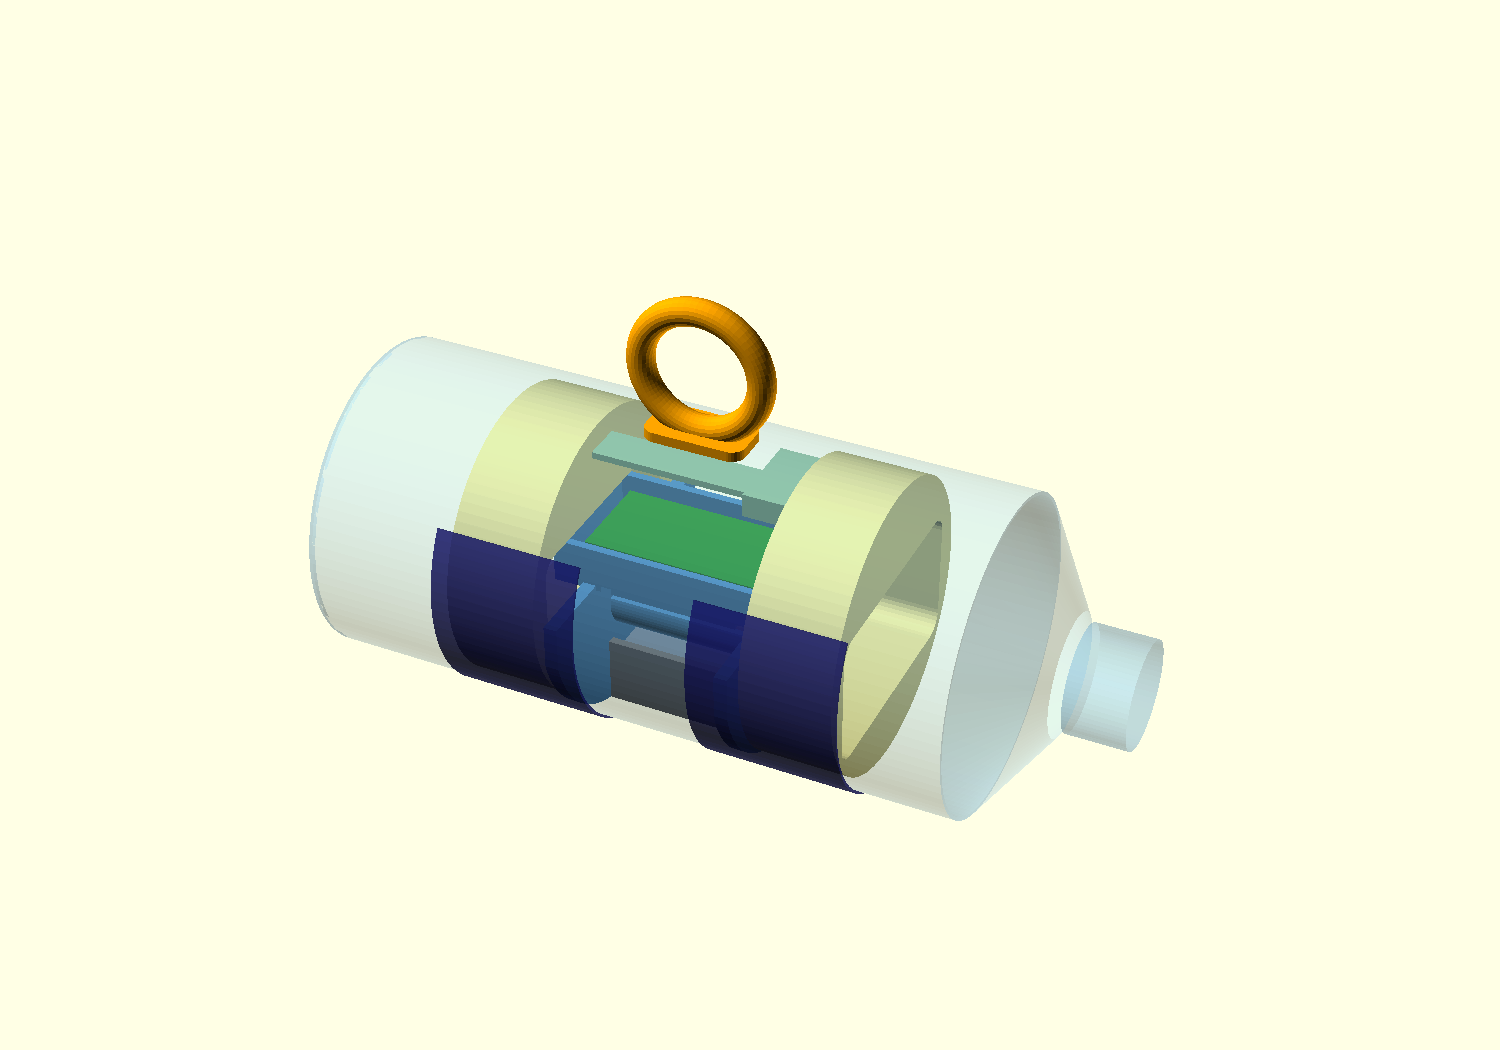
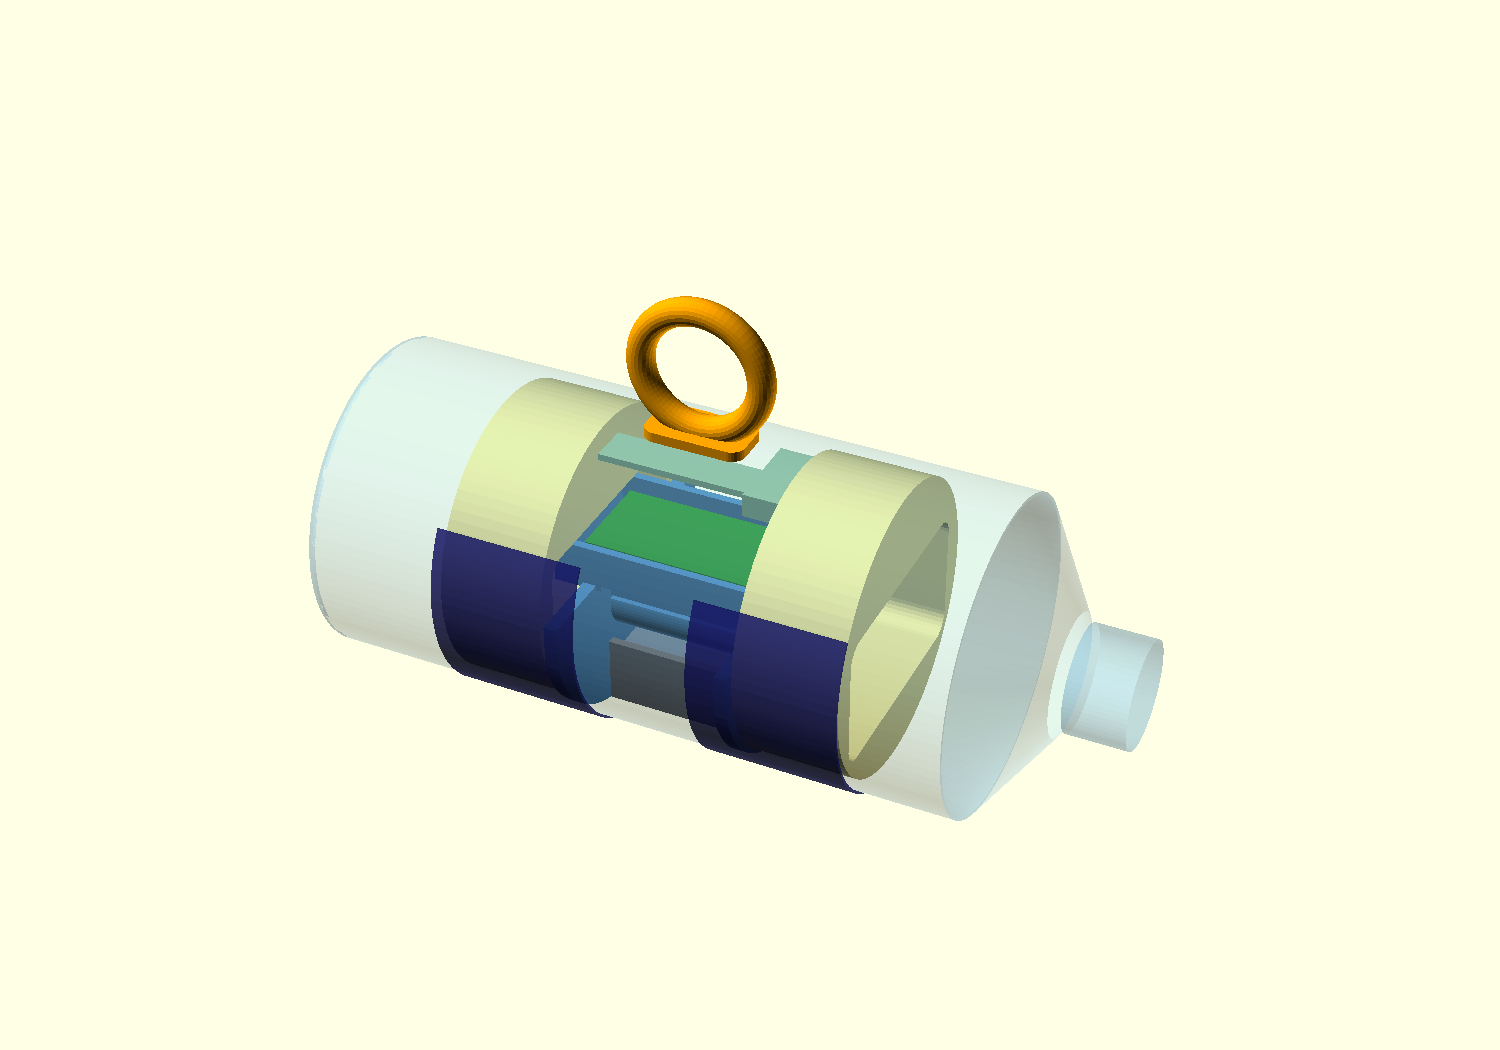
fix(hardware): Tier 1.5 QA 라운드 개선 — 폼 CAD 연결·assert 게이트·T1 정합·재현성
QA 군단(4렌즈, 렌더 직접열람) 검수 반영:
- M1 밀도인지 폼을 CAD 지오메트리에 실제 연결(foam_collar(t)·assembly/export 분기) → 렌더·STL이 27→31mm 실제 반영(기존엔 echo·주석만이라 F2 탈락 크기 출력)
- M6 비금속 기재 게이트를 assert()로 코드 강제(metal이면 빌드 abort — 산문 아님)·solar_second_cell 질량 실배선
- M3 Tier 1.5 BOM 표 malformed 수정(Reference orderable 열 신설·실품)
- M5 T1 정본 정합(24h→30분 침지·Δm≤0.5g, T3 1m→1.5m) TIER1_5·조립
- M4 T7(셀 장착 자기복원) VERIFIED_BUILD_TEST 항목·G5 벤치 부록 추가
- M2 솔라 랩 시공 절차(조립 §3-S) 신설
- minor: 폼 계수 6.7 EP 교차참조·DIY 티어표 선형/MPPT

★커널·정직·렌더 시각은 QA 전부 PASS. B1(리포 라이선스 P vs S·데이터 BY vs BY-SA)은 소유자 결정 필요로 별도 보고.

diff --git a/docs/조립_가이드.md b/docs/조립_가이드.md
@@ -71,7 +71,7 @@
 
 표준 페트병 입구는 **Ø28~30mm**인데 폼 칼라(Ø86)·브래킷(폭 86)은 그보다 크다 — **입구로는 물리적으로 안 들어간다.** 두 가지 길:
 
-1. **절단-재밀봉(기본, Merlino 아르노강 방식)**: 병 어깨 아래를 커터로 깨끗이 한 바퀴 절단 → 부품 삽입·고정 → 절단부를 5~10mm 겹쳐 끼우고 **실리콘 도포 + 방수 테이프 2겹(또는 열수축 밴드)** 으로 재밀봉. ★절단부가 새 누수 지점이 되므로 **T1(24h 소크)을 반드시 이 상태로** 통과시킨다.
+1. **절단-재밀봉(기본, Merlino 아르노강 방식)**: 병 어깨 아래를 커터로 깨끗이 한 바퀴 절단 → 부품 삽입·고정 → 절단부를 5~10mm 겹쳐 끼우고 **실리콘 도포 + 방수 테이프 2겹(또는 열수축 밴드)** 으로 재밀봉. ★절단부가 새 누수 지점이 되므로 **T1(밀봉 침지 30분, Δm≤0.5g)을 반드시 이 상태로** 통과시킨다.
 2. **광구 용기(대안)**: 입구가 넓은 HDPE/PP 밀폐 용기(FLOAT_STANDARD 소재표)를 쓰면 절단 불필요 — 재사용·견고 캠페인에 유리.
 
 순서(아래→위): **킬(밸러스트) → 배터리 → 폼 → 보드 → 안테나**. 원칙: 무거운 건 아래·가운데, 폼은 상부 2/3, 안테나는 최상단.
@@ -81,6 +81,17 @@
 3. 폼 칼라/블록 삽입(보드 채널 통과).
 4. **안테나 2개(LTE·GNSS)는 병 최상단**, 금속·물과 이격. 하우징은 비금속(RF 투과) 유지.
 5. QR/연락처 라벨(방수)·고시인성 테이프(수선 위치)·회수 고리(파라코드, **저프로파일** — 야생동물 얽힘 저감) 부착.
+
+## 3-S. 솔라 랩 시공 (Tier 1.5 · 솔라 변형만)
+
+박막 랩은 이 변형의 **유일한 핵심 공정**이자 최다 실패모드(물속 박리·엣지 침투)다. 순서:
+1. **표면 전처리** — 몸통 랩 구간 탈지(IPA) → 실란 PET 프라이머 도포 → 지정 경화시간 대기.
+2. **필름 부착** — 밴드 폭 44mm, 중앙 채널 34mm(`solar_band_gap`, 회수고리·QR 노출) 유지. VHB 마린으로 리딩 엣지부터 밀착, 곡면 기포 제거.
+3. **★+Z 120° 필름-프리 창** — 캡 기준 각도를 맞춰 안테나·회수고리 위 120° 섹터를 필름으로 **덮지 말 것**([assembly_solar.png](../hardware/cad/assembly_solar.png) 대조). 마스킹 테이프로 창 경계 표시 후 재단.
+4. **엣지 밀봉** — 리드 관통·필름 가장자리를 부틸/에폭시로 밀봉(박리·침투 차단). 배선은 **절단-재밀봉 이음부 그로밋 재사용**(§3-0) — 새 구멍 금지.
+5. **부착물** — 충전 컨트롤러·NTC(셀 캔 본딩)·격리 다이오드는 기존 브래킷 리브에 지퍼타이(★무프린터 빌드는 폼 칼라 상부 채널 벽 또는 셀홀더 옆에 케이블타이+에폭시, CG 낮게), 벤트 패치는 캡에.
+
+전개(flat) 절단 치수: 원주 ≈ π×`solar_wrap_od`(~289mm) · 축폭 44mm · 채널 34mm · 120° 필름-프리 호. ★정밀 SVG/DXF 전개 템플릿은 폼(`foam_collar_2d.scad`)처럼 후속 산출 예정.
 
 ## 4. 밀봉
 
@@ -96,9 +107,9 @@
 
 | 테스트 | 방법 | 합격 |
 |---|---|---|
-| **T1 밀봉 소크** | 24h 침수(눌러 잠금) → 개봉 없이 무게 | 질량 증가 <5%·내부 건조 |
+| **T1 밀봉 침지** | 30분 침지(20cm 수몰) → 개봉 없이 무게 | **Δm≤0.5g**(>2g FAIL)·내부 건조 |
 | **T2 침수-부양(=F2)** | 하우징에 물 채우거나 공기배수량만큼 추 → 물에 | **72h 똑바로 부유** |
-| T3 낙하 | 1m 콘크리트 낙하 → T1 재확인 | 밀봉 유지 |
+| T3 낙하 | 1.5m 콘크리트 낙하 → T1 재확인 | 밀봉 유지 |
 | T4 자기복원 | 뒤집어 놓기 | 안테나가 위로 스스로 복원 |
 | T5 냉수 가동 | 아이스팩 수조에서 수 주기 | 핑 누락 <10% |
 | T6 소크 후 RF | T1 후 야외 | GPS+LTE 재취득 |

diff --git a/docs/벤치_체크리스트.md b/docs/벤치_체크리스트.md
@@ -43,5 +43,21 @@
 
 전 유닛 G0~G3 통과 → [조립_가이드](조립_가이드.md) 3장(조립)으로. 조립·밀봉 후 T1~T6([VERIFIED_BUILD_TEST](../hardware/VERIFIED_BUILD_TEST.md)) → 방류 전 [PRELAUNCH_RECOVERY_CHECKLIST](../hardware/PRELAUNCH_RECOVERY_CHECKLIST.md).
 
+## 4. 솔라 부록 — G5 수확 (Tier 1.5 솔라 변형만)
+
+솔라 유닛은 위 G0~G3 + 조립·T1~T6에 더해 **G5(수확 특성화)·T7(셀 장착 자기복원)** 를 통과해야 방류. G5 7스텝(인라인 전류계/쿨롱카운터, 최소 USB 전류계로 대체 가능):
+
+| ✅ | 단계 |
+|---|---|
+| ☐ | ① 완전 햇빛·정적 최적 자세 기준 충전전류 |
+| ☐ | ② **뒹구는 자세** 시간평균 전류(자기복원체는 고정면 없음·배는 항상 어두움) |
+| ☐ | ③ 모의 탁도/수막 얹고 재측정 |
+| ☐ | ④ 노화 반영(a-Si는 초기 10~30% 안정화 후) |
+| ☐ | ⑤ 일주 적분 → 수확 H(mAh/day) |
+| ☐ | ⑥ **야간 컨트롤러 정지전류 실측** — mA급 MPPT면 순손해 → 선형/야간게이트 |
+| ☐ | ⑦ 목표 핑 실측 소비 D와 비교, **손익분기 H*≈132 mAh/day**(60분·모뎀오프). 연장계수 1/(1−H/D)만, ★**일수 인용 금지** |
+
+**판정**: H가 D 대비 순증이 아니면 "보험 트리클"로 라벨(배터리가 잔류를 독립 감당). <0℃면 저온 컷오프로 H→0(겨울은 솔라 아님). 상세=[TIER1_5 §4](../hardware/TIER1_5_SOLAR_DRIFTER.md).
+
 ---
 > 정직 각주: 모든 전력·부력 수치는 추정이며 이 벤치가 실측으로 교체한다. 셀룰러(위성 아님)·회수-우선. 다수 방류 전 전파 면제확인 필요.

diff --git a/hardware/BOM.md b/hardware/BOM.md
@@ -32,15 +32,15 @@ Reference board is the LILYGO T-A7670G R2 with onboard L76K GNSS. It is cellular
 
 For missions where a unit **dwells in-coverage for weeks** (estuary retention — the Han-estuary study shows most litter lingers 1 month+), a battery-only unit dies before it can be recovered. Add **wrap-around thin-film solar** to extend reporting life so the unit stays trackable and recoverable. ★**Solar extends power, not coverage** — a unit that leaves cellular range goes silent regardless of charge (that is satellite / Class 3). Not for short recover-in-days missions (use Tier 1). Full spec, the self-righting-preserving design, and the extra bench gates (G5 solar harvest, T7 self-right with cells): [TIER1_5_SOLAR_DRIFTER.md](TIER1_5_SOLAR_DRIFTER.md).
 
-| Function | Generic spec | Reference | ~USD |
+| Function | Generic spec | Reference (orderable) | ~USD |
 |---|---|---|---|
-| Solar cells | flexible thin-film wrapped around the body. ★**Non-metal RF-transparent substrate only** — a-Si (ETFE front) or Cd-free CIGS (polyimide); no stainless-backed CIGS / CdTe / perovskite (RF shield + toxicity). ETFE front, not PET | 8–15 |
-| Charge control | ★**External low-Iq linear charger (default, CN3065-class) to the BATTERY terminal**, zip-tied to the existing bracket; onboard-direct only as a small-panel exception w/ buck-boost to 5.0–5.2 V. MPPT (CN3791-class) for clean/summer sites only | 0–10 |
-| Low-temp cutoff | ★**Mandatory on ALL modes, hardware latch** — 10 kΩ B3435 NTC epoxy-bonded to the cell can (<0 ℃ charge blocked; not firmware) | 0.5 |
-| Isolation diode | Schottky / ideal-diode, reverse-block the panel | 0.5 |
-| Vent | Gore-Tex ePTFE **adhesive patch** (pressure/heat) — **not** a printed boss | 2–4 |
-| Extra foam | buoyancy re-cut, ★**density-aware +6.7 cm³/10g** (panel ρ≈1.64, NOT the ballast 11.7) | ~1 |
-| Battery (optional 2nd) | buffer cell — ★**matched + isolation diode/balancing**, belly placement; else prefer one larger protected cell | 8–11 |
+| Solar cells | flexible thin-film, 5–6 V, min-bend-radius ≤46 mm. ★**Non-metal RF-transparent substrate only** — a-Si (ETFE front) or Cd-free CIGS (polyimide); no stainless-backed CIGS / CdTe / perovskite (RF shield + toxicity) | PowerFilm-class flexible a-Si panel (ETFE front) | 8–15 |
+| Charge control | ★**external low-Iq linear (default) to the BATTERY terminal**, zip-tied to the existing bracket; onboard-direct only a small-panel exception (buck-boost to 5.0–5.2 V); MPPT for clean/summer sites | CN3065 breakout module (linear) / CN3791 (MPPT) | 0–10 |
+| Low-temp cutoff | ★**mandatory all modes, hardware latch** — <0 ℃ charge blocked (not firmware) | 10 kΩ B3435 NTC epoxy-bonded to the cell can | 0.5 |
+| Isolation diode | reverse-block the panel | Schottky / ideal-diode module | 0.5 |
+| Vent | pressure/heat equalise — **not** a printed boss | Gore-Tex ePTFE adhesive vent patch | 2–4 |
+| Extra foam | buoyancy re-cut, ★**density-aware +6.7 cm³/10 g** (panel ρ≈1.64, NOT the ballast 11.7) | closed-cell EVA sheet | ~1 |
+| Battery (optional 2nd) | ★**matched + isolation diode/balancing**, belly placement; else one larger protected cell | matched protected 18650 | 8–11 |
 
 Everything else is identical to Tier 1. Keep the battery sized to survive the planned dwell on its own; solar is margin, not a design input, until bench G5 measures real harvest.
 

diff --git a/hardware/VERIFIED_BUILD_TEST.md b/hardware/VERIFIED_BUILD_TEST.md
@@ -88,7 +88,20 @@
 
 ---
 
-**Verified Build 최종 판정**: T1~T6 **전부 PASS** → `verified_build=true` 스탬프(체크리스트/스키마 연동). 하나라도 FAIL이면 방류 불가.
+### T7 — 셀 장착 자기복원 (Tier 1.5 솔라 변형 전용, = T4 재시험)
+**절차**: 솔라 페이로드(박막 필름 + 충전 컨트롤러 + NTC + 배선)를 전부 장착하고 폼을 `foam_vol_solar`(~186cm³)로 키운 상태에서 **T4를 그대로 재수행**. ★밸러스트는 **40g 불변**(솔라 무게 상쇄로 감량 금지 — CG 상승, 자기복원 사망).
+
+| 판정 | 조건 |
+|---|---|
+| ✅ PASS | 5회 모두 ≤5초 자동 복원, 최종 안테나부 수면 위 |
+| ⚠ 튜닝 | 5–10초 → 밸러스트 **위치**(질량 아님) 재튜닝 |
+| ❌ FAIL | 복원 실패 또는 안테나 수면 아래 → 방류 금지 |
+
+> 솔라 변형은 T7에 더해 **G5(솔라 수확 특성화)·T1(배선 그로밋 장착 소크)·F2(폼 `foam_vol_solar`)·T6(셀 장착 RF 재취득)** 를 추가 통과해야 한다. 상세·손익분기는 [TIER1_5_SOLAR_DRIFTER.md §4](TIER1_5_SOLAR_DRIFTER.md).
+
+---
+
+**Verified Build 최종 판정**: T1~T6 **전부 PASS** → `verified_build=true` 스탬프(체크리스트/스키마 연동). 하나라도 FAIL이면 방류 불가. ★**솔라 변형(Tier 1.5)은 추가로 G5+T7+T1+F2+T6(셀 장착)를 통과해야** `verified_build`.
 
 ---
 > **정직 가드 각주**: 담수 기준·셀룰러(위성 아님)·물리 계산(예측 아님)·회수-우선·현장 수치 날조 금지. 모든 질량·부력은 **추정(estimate)**. 예비부력비=부력/질량으로 통일 표기.

diff --git a/hardware/TIER1_5_SOLAR_DRIFTER.md b/hardware/TIER1_5_SOLAR_DRIFTER.md
@@ -67,7 +67,7 @@
 
 - **G5 · 솔라 수확(특성화·손익분기)** — 완성 상태(필름·컨트롤러 배터리단자 배선·NTC 캔본딩·폼 `foam_vol_solar`)에서: ①정적 최적 자세 기준전류 ②**뒹구는 자세** 시간평균(자기복원체는 고정면 없음·배는 항상 어두움) ③모의 탁도/수막 ④노화(a-Si는 초기 10~30% 안정화 후) ⑤일주 적분 → **수확 H(mAh/day)** ⑥**야간 컨트롤러 정지전류 실측**(mA급 MPPT는 야간 손실!) — Iq가 일평균 수확을 넘으면 순손해 → 선형/야간게이트. ⑦목표 핑의 **실측 소비 D**와 비교. **손익분기 H\*≈132 mAh/day**(ELECTRONICS_POWER §1.5, 60분·모뎀오프). **연장계수 1/(1−H/D)만**(H<D일 때), **일수 인용 금지**. H가 순증이 아니면 "보험 트리클"로 라벨하고 배터리가 잔류를 독립 감당.
 - **T7 · 셀 장착 자기복원**(= VERIFIED_BUILD_TEST **T4를 솔라 페이로드 장착 상태로 재시험**) — 필름+컨트롤러+NTC+배선 다 장착, 폼 `foam_vol_solar`, **밸러스트 40g 불변**. 뒤집어 투하 → 5회 자동복원 ≤5초·최종 안테나 수면 위. 5~10초=밸러스트 **위치**(질량 아님) 재튜닝, 실패=방류 금지.
-- **T7이 강제하는 재통과 3종**: **T1**(24h 소크, Δm≤0.5g)를 **배선 그로밋 관통 장착 상태로**(새 누수점) · **F2/T2**(72h 침수부양)를 `foam_vol_solar`로(예비부력비 ≥1.20) · **T6**(소크 후 GPS≤5분·LTE≤10분)를 **셀 장착 상태로**(major B 강제 — 랩이 안테나를 안 가림을 증명, 금속 기재는 여기서 탈락).
+- **T7이 강제하는 재통과 3종**: **T1**(밀봉 침지 **30분**, Δm≤0.5g / >2g FAIL — 정본 VERIFIED_BUILD_TEST)를 **배선 그로밋 관통 장착 상태로**(새 누수점) · **F2/T2**(72h 침수부양)를 `foam_vol_solar`로(예비부력비 ≥1.20) · **T6**(소크 후 GPS≤5분·LTE≤10분)를 **셀 장착 상태로**(major B 강제 — 랩이 안테나를 안 가림을 증명, 금속 기재는 여기서 탈락).
 - **방류 게이트**: G5 특성화 + T7 + T1 + F2 + T6 전부 통과, 아니면 방류 금지.
 
 ---
@@ -84,13 +84,13 @@
 | **39g(nominal)** | **181** | **185** | **1.266** | **~31mm** |
 | 45g(상한) | 185 | 189 | 1.265 | ~31.5mm |
 
-★**폼을 160에 두지 말 것** — 39g에서 1.17로 떨어져 1.20 하한 FAIL. ★**밸러스트는 40g 불변**(벨리); 솔라 무게 상쇄로 감량 절대 금지(CB−CG 마진 잠식). 2nd셀 시 Δm≈+95g → 폼 ≈230cm³·벨리 배치·매칭+격리다이오드·F2/T7 재통과. *모든 CG/예비부력비는 추정 위의 추정 — T7+F2+T1이 대체.*
+(★표 채택값은 완전식 기준 — CAD 증분식 `foam_vol_solar`는 39g에서 186cm³로 근소 상회, 둘 다 벤치 대체.) ★**폼을 160에 두지 말 것** — 39g에서 1.17로 떨어져 1.20 하한 FAIL. ★**밸러스트는 40g 불변**(벨리); 솔라 무게 상쇄로 감량 절대 금지(CB−CG 마진 잠식). 2nd셀 시 Δm≈+95g → 폼 ≈230cm³·벨리 배치·매칭+격리다이오드·F2/T7 재통과. *모든 CG/예비부력비는 추정 위의 추정 — T7+F2+T1이 대체.*
 
 ---
 
 ## 6. 3D / CAD (오픈소스 — 편집 가능한 정본)
 
-- **[cad/params.scad](cad/params.scad)** — 솔라 파라미터 블록(전부 추정 → 벤치 교체). `solar_enable`·비금속 기재 게이트·밀도인지 폼·RF 창·컨트롤러 위치·NTC.
+- **[cad/params.scad](cad/params.scad)** — 솔라 파라미터 블록(전부 추정 → 벤치 교체). `solar_enable`·밀도인지 폼·RF 창·컨트롤러 위치·NTC. ★**비금속 기재 게이트는 `assert()`로 코드에서 강제**(`solar_cell_substrate="metal"`이면 빌드 abort — 산문 주장이 아니라 실제 차단). 밀도인지 폼은 `foam_collar(collar_t_solar)`로 지오메트리에 연결돼 **렌더·STL이 실제로 커진다**(base 27→~31mm).
 - **[cad/solar_variant.scad](cad/solar_variant.scad)** — 랩·컨트롤러·벤트 **viz 전용 모듈**(★프린트 STL 미출력 — 신규 부품 0). 랩의 로컬→글로벌 축 매핑(local −x → global +Z)이 뒤집히기 쉬워 **assembly 렌더로 RF 창이 +Z에 떨어지는지 확인**하게 설계.
 - **[cad/assembly_solar.png](cad/assembly_solar.png)** — `openscad -D solar_enable=1`로 렌더. ★**RF 창이 +Z(안테나 쪽)에 정확히 떨어짐을 렌더로 검증 완료**(필름은 아래 240°만, 위 120°는 필름-프리).
 - 렌더: `openscad -o assembly_solar.png -D solar_enable=1 --autocenter --viewall --imgsize=1500,1050 assembly.scad`. **실병·실안테나 위치를 실측해 params 갱신** 후 재렌더(현 좌표는 mockups.scad 추정치).

diff --git a/docs/DIY_DIVERSITY.md b/docs/DIY_DIVERSITY.md
@@ -113,7 +113,7 @@
 |---|---|---|---|---|---|---|---|
 | **Tier0** | 폰인병(재사용폰+GPSLogger) | 없음(앱 설정) | 무 | 5~35 | 단기 | 학교·시민·저자원 | **테더 전용·Class A 전용**·PRELAUNCH 하드종속. 스키마 POST(코드 0줄) |
 | **Tier1** | 기본(LILYGO 커넥터형) | 조립만 | **무납땜**(JST/uFL/USB) | 40~80 | 단기~중기 | 메이커 입문 | F1/F2 통과·보호셀·스키마 |
-| **Tier1.5** | 솔라 보조(장기 잔류) | 박막 셀·MPPT·저온컷오프 | 소량 | 55~95 | 주+ | 하구 잔류·회수보험 | 자기복원 보존(원통 셀)·저온컷오프·**솔라=전력≠커버리지**([TIER1_5](../hardware/TIER1_5_SOLAR_DRIFTER.md)) |
+| **Tier1.5** | 솔라 보조(장기 잔류) | 박막 셀·저Iq 선형(기본)/MPPT(옵션)·저온컷오프 | 소량 | 65~100 | 주+ | 하구 잔류·회수보험 | 자기복원 보존(원통 셀)·저온컷오프·비금속기재·**솔라=전력≠커버리지**([TIER1_5](../hardware/TIER1_5_SOLAR_DRIFTER.md)) |
 | **Tier2** | 견고 빌드 | 방수 마감·기본 공구 | 무~소량 | 90~180 | 중기 | 메이커·지자체 | B8 벤트·셀-실패 격납 강화 |
 | **Tier3** | 장기 자율(솔라 옵션) | 솔라 배선 | **여기서만 납땜 등장** | 180+ | 장기 | 연구·장기 실증 | 열마진·MPPT·보호셀 필수 |
 

diff --git a/hardware/ELECTRONICS_POWER.md b/hardware/ELECTRONICS_POWER.md
@@ -131,7 +131,7 @@
 | 추가 질량 → 부력 | 패널·컨트롤러·배선 추가 질량 = **부력 재계산 필수.** RELIABILITY 정본식 `[Σ고형배수 + V_foam] ≥ 1.25 × (M_dry + ρ_foam·V_foam)`으로 폼 재사이징 | 질량 늘면 흘수↑·건현↓·자기복원 여유↓ |
 | 자기복원 상호작용 | 패널을 상부에 두면 CG 상승 위험(CG < CB 유지 필요) → 하부 밸러스트 재튜닝 → 밸러스트↑ → 다시 폼↑ (연쇄 재계산) | CG 상승은 복원성 직접 잠식 |
 
-> **부력 재보정 계수(참고, ★정본 의존):** RELIABILITY §5 밸러스트-폼 트레이드오프식에 따르면 질량 +Δm에 대해 **폼 약 +11.7 cm³/10g** 수준의 재보정이 필요하고, 폼 160 cm³ 기준 침수 예비부력비 **1.275(PASS, 목표 ≥1.25)**의 여유가 태양광 추가로 잠식된다. ★이 교차인용 수치는 본 문서 내에서 검증 불가하며 **RELIABILITY 정본의 실재·정합을 별도 확인**해야 한다. **패널은 밀도가 달라 계수는 실측으로 재산정**해야 한다.
+> **부력 재보정 계수(참고, ★정본 의존):** RELIABILITY §5 밸러스트-폼 트레이드오프식에 따르면 질량 +Δm에 대해 **폼 약 +11.7 cm³/10g** 수준의 재보정이 필요하고, 폼 160 cm³ 기준 침수 예비부력비 **1.275(PASS, 목표 ≥1.25)**의 여유가 태양광 추가로 잠식된다. ★이 교차인용 수치는 본 문서 내에서 검증 불가하며 **RELIABILITY 정본의 실재·정합을 별도 확인**해야 한다. **패널은 밀도가 달라 계수는 실측으로 재산정**해야 한다. (★저밀도 랩 필름 변형(Tier 1.5)은 밀도인지 **+6.7 cm³/10g** — [TIER1_5 §5](TIER1_5_SOLAR_DRIFTER.md). 여기 11.7은 리지드 패널 프레임 등 고밀도 추가물에만 해당.)
 
 ### 3.3 태양광 대신 대용량 1차전지가 나은 때
 